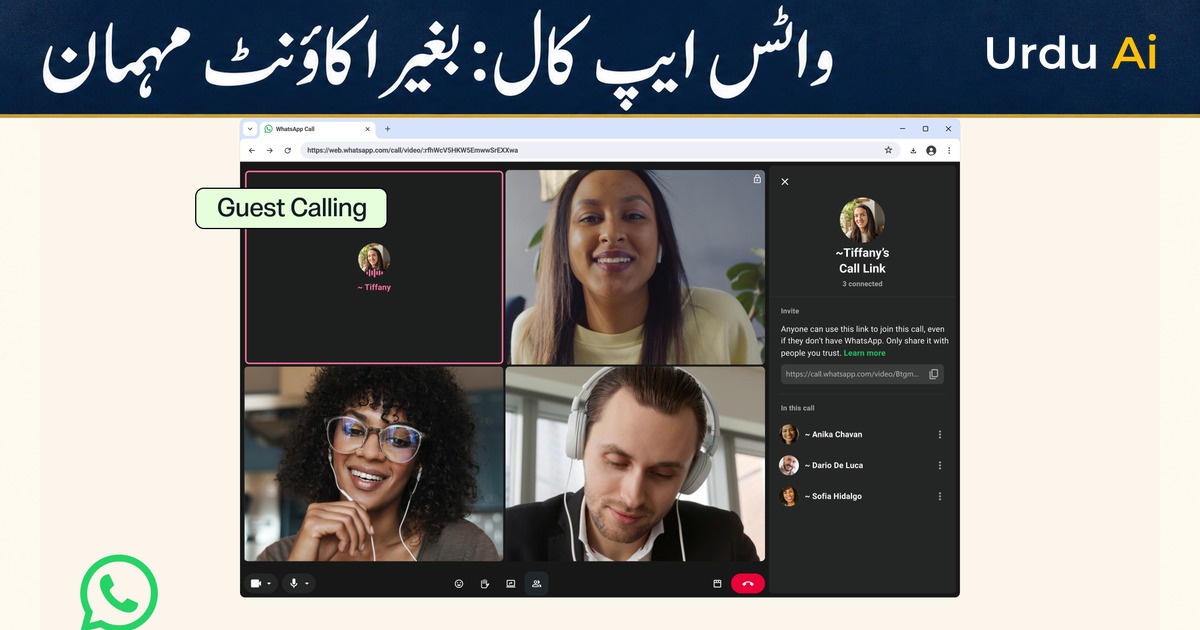
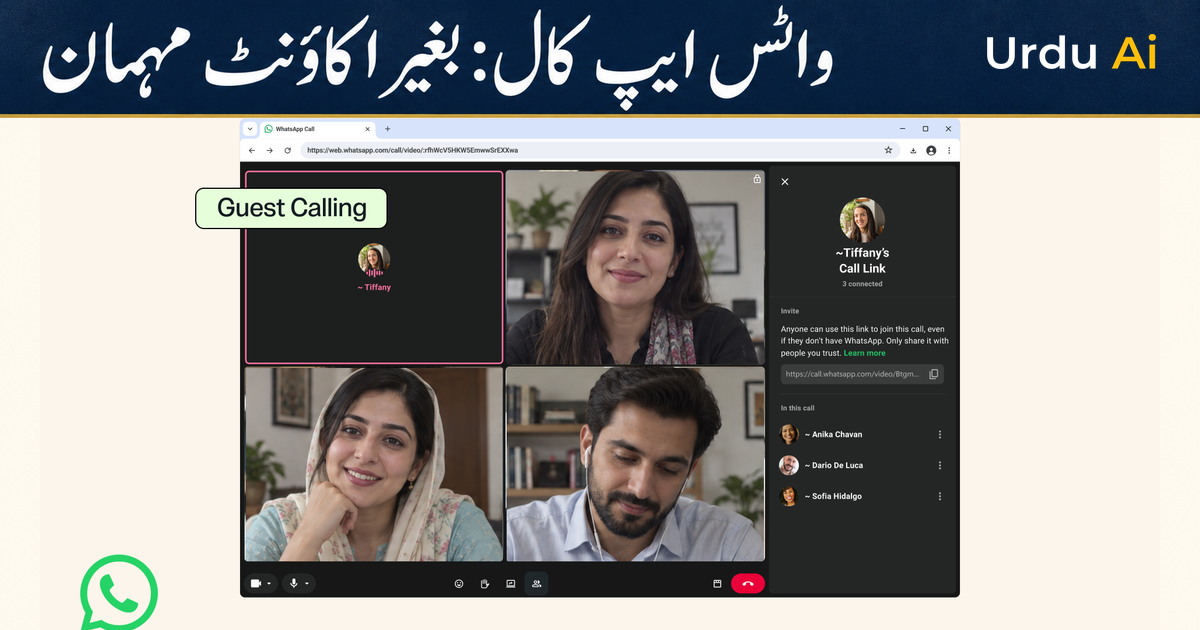
Localize WhatsApp guest calling visuals for Pakistan

Changed region(s): [[0.185, 0.2714, 0.6475, 0.9048]]

diff --git a/src/content/blog/whatsapp-guest-calling-without-account-pakistan-urdu.md b/src/content/blog/whatsapp-guest-calling-without-account-pakistan-urdu.md
@@ -34,9 +34,9 @@ faq:
 
 واٹس ایپ (WhatsApp) نے **14 اکتوبر 2026** کو گیسٹ کالنگ متعارف کرائی ہے۔ اب واٹس ایپ اکاؤنٹ رکھنے والا شخص **کال لنک** بنا کر ایسے فرد کو بھی دعوت دے سکتا ہے جس کا واٹس ایپ اکاؤنٹ نہیں۔ مہمان اپنے **کمپیوٹر کے براؤزر** میں لنک کھولتا ہے، نام لکھتا ہے اور میزبان کی منظوری کے بعد کال میں شامل ہوتا ہے۔ [Meta کا اصل اعلان](https://about.fb.com/news/2026/10/introducing-whatsapp-guest-calling/)
 
-![Meta کی جاری کردہ واٹس ایپ گیسٹ کالنگ کی تصویر، جس میں کمپیوٹر براؤزر میں کال دکھائی گئی ہے](/images/blog/whatsapp-guest-calling-meta-original.jpg)
+![Meta کے واٹس ایپ کالنگ انٹرفیس میں پاکستانی لوگوں کے تصوراتی چہرے، کمپیوٹر براؤزر میں کال کا منظر](/images/blog/whatsapp-guest-calling-pakistani-editorial.jpg)
 
-*تصویر: Meta Newsroom، 14 اکتوبر 2026۔ یہ کمپنی کی فراہم کردہ فیچر تصویر ہے، ہماری بنائی ہوئی اسکرین شاٹ نہیں۔*
+*تصویر: [Meta کی اصل فیچر تصویر](/images/blog/whatsapp-guest-calling-meta-original.jpg) کی بنیاد پر Urdu Ai کی مقامی ترمیم۔ کال میں نظر آنے والے پاکستانی چہرے تصوراتی ہیں؛ یہ حقیقی صارفین کی تصویر یا ہماری لی ہوئی اسکرین شاٹ نہیں۔*
 
 پاکستان میں اس کا آسان مطلب یہ ہو سکتا ہے کہ آپ بیرونِ ملک کسی رشتے دار، آن لائن استاد یا کام کے ساتھی کو ایک کال لنک بھیجیں؛ اگر ان کے پاس واٹس ایپ اکاؤنٹ نہ ہو تو بھی وہ کمپیوٹر سے شامل ہو سکیں۔ **میزبان کے لیے واٹس ایپ اکاؤنٹ ضروری ہے۔** Meta نے پاکستان کے لیے الگ دستیابی کی تاریخ نہیں بتائی، اس لیے فیچر ہر اکاؤنٹ میں نظر آنے کا دعویٰ نہیں کیا جا سکتا۔
 
